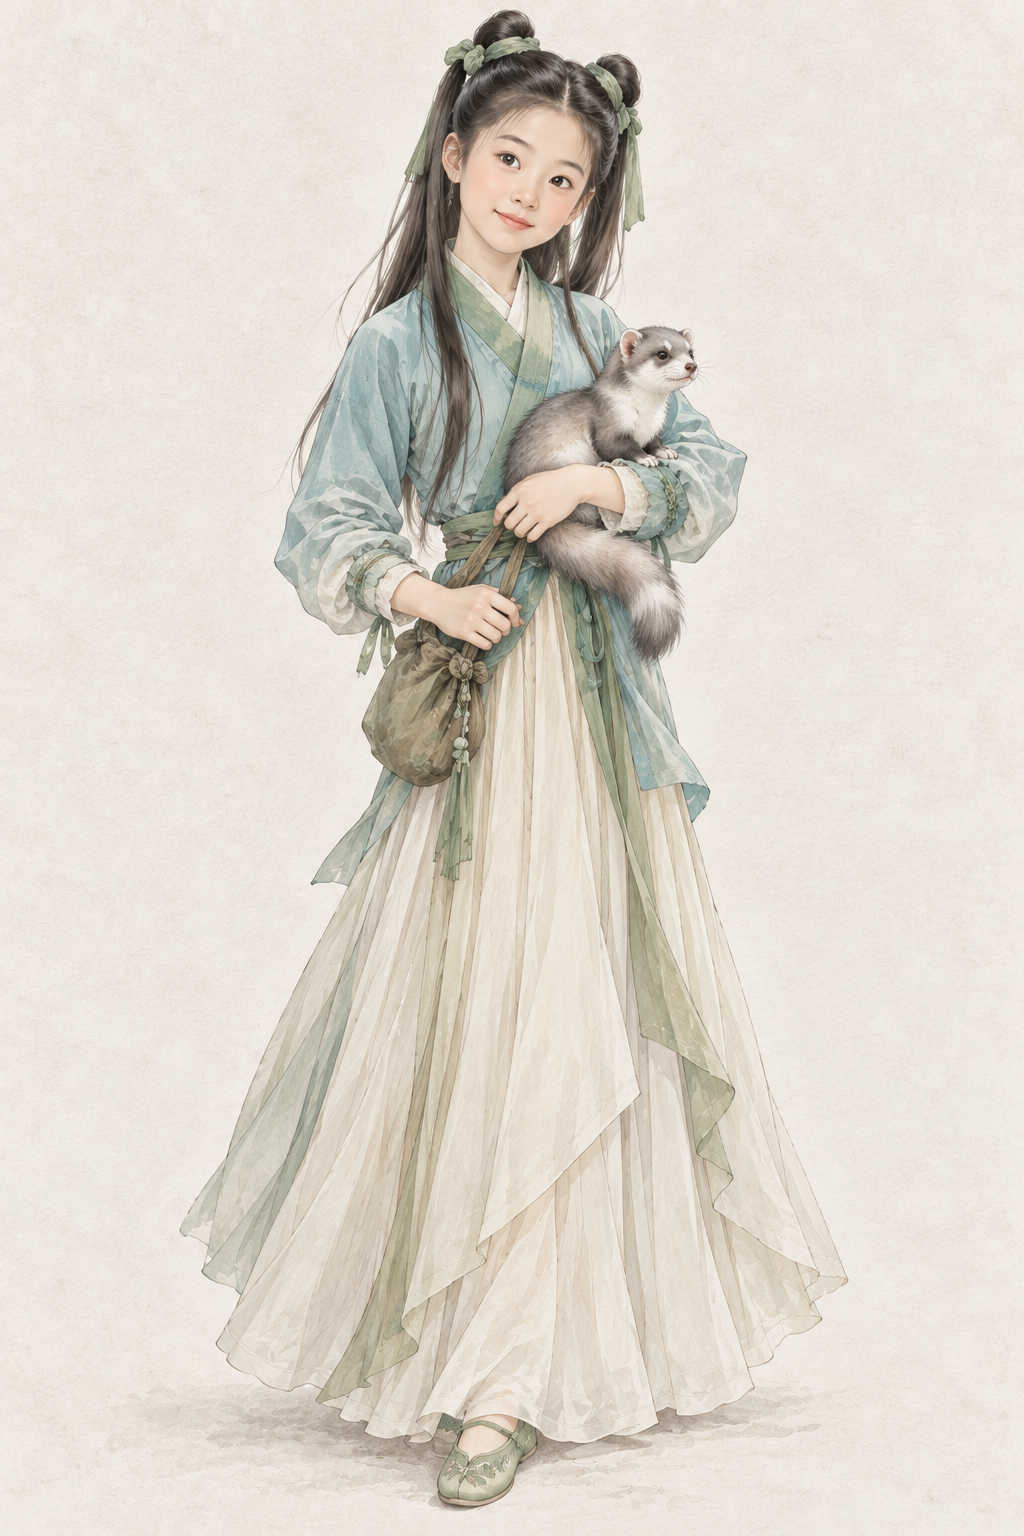
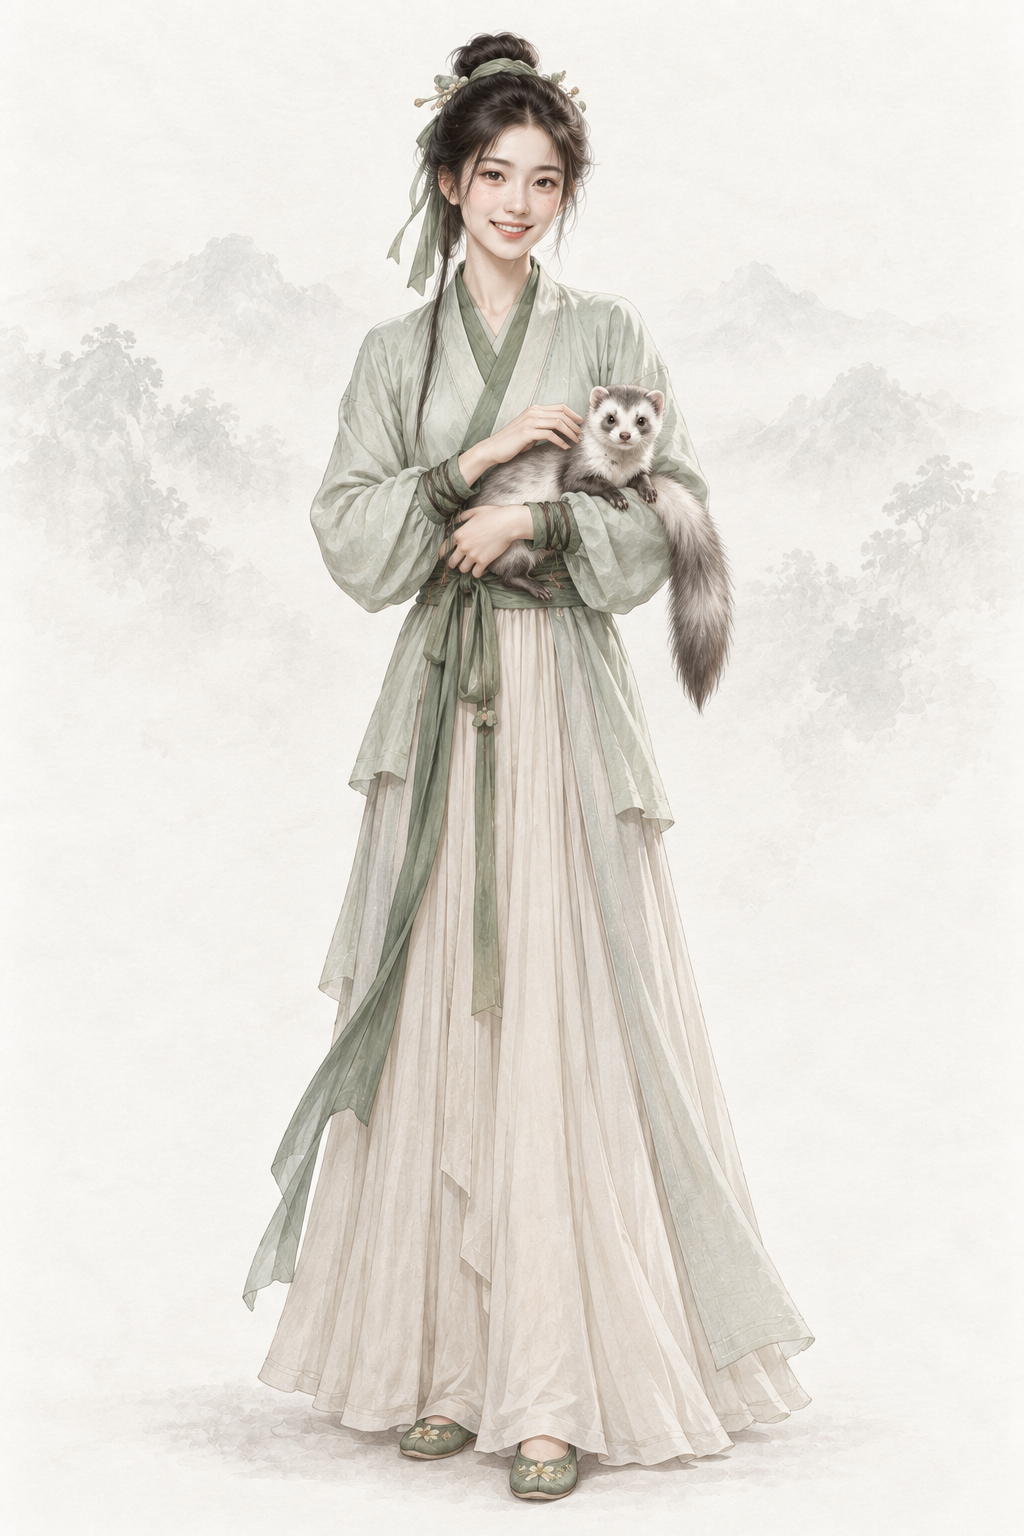
assets(character): por_npc_zhongling__ch01_youth_diaoalive_base 钟灵（codex）
AR-31：重要人物加经典造型文字描写（原创面孔）

diff --git a/assets/default/prompts/characters/ch01-tianlong/npc_zhongling.md b/assets/default/prompts/characters/ch01-tianlong/npc_zhongling.md
@@ -19,11 +19,32 @@ status: redo
 redo_reason: "明显幼态（孩童脸、双丫髻）且面容源自剧集剧照，按禁止幼态画成成年年轻女子，保留青衫、圆脸大眼与闪电貂"
 reference_upload:
 - assets/default/baseline/character/female/ref_npc_wangyuyan__ch01_base01.png
+codex_prompt_rev: 2026-10-02
 ---
 
 # 钟灵 · 《天龙八部》（ch01）
 
 ## Gemini 提示词
+
+> 2026-10-02 AR-31 改写（1 号出图员，codex exec · image_gen 出图）：重要人物借鉴经典影视造型，只写成文字——不写演员名、不上传剧照、原创面孔；主角和美人画得好看，去 AI 味，禁止幼态。出图时上传两张同性别基线立绘作画风参考（放在最后）。审核组原稿保留在下一节作历史。
+
+```text
+生成一张 2:3 竖幅全身人物立绘：单人、单一视角、完整全身——头顶、双手、双脚和手中器物的两端都在画面内，四周留出自然空白；人物站姿自然，身体基本朝向正面，头部端正（不歪头、不仰不俯），镜头平视。
+【画风】写实手绘古风人物插画，与本项目写实武侠角色立绘同一画风：人物是完整、坚实、比例真实的写实绘画；皮肤有真实质感——细小毛孔、细纹、晒痕、轻微色斑和自然的左右不对称，不磨皮、不油亮；头发有一根根的发丝和自然碎发；布料看得出经纬纹理、厚薄和自然垂坠的褶皱，带穿用过的轻微旧化，但完整不破烂；整体设色低饱和、沉稳；柔和的自然光从左上方照来，明暗过渡自然，不打舞台光、轮廓光或美颜柔光。这是手绘写实绘画，不是照片，不是三维渲染，也不是动漫或游戏 CG。
+【背景】不透明的暖浅灰色纸底，只在远处有极淡的水墨远山和薄雾，大面积留白；人物与背景明暗分明、轮廓边缘干净完整（后续要自动抠图），水墨和纸纹只在背景里，不侵入人物和衣服；脚下只有很淡的一点接触阴影。
+【人物】钟灵，《天龙八部》万劫谷谷主之女，段誉在无量山结识的活泼姑娘，养着一只闪电貂；无量山初遇、闪电貂仍随身的阶段。
+【年龄与体态】原著十六七岁，按本作规定画成约二十岁的成年年轻女子，身材轻盈但为成人比例。成年女性的身体比例（约 7 头身），衣着完整端庄、不透明、不暴露、不性感化。
+【经典造型】借鉴经典武侠影视里这个角色深入人心的造型，只取发型、装束、配色、标志道具、气质和脸型类型，用原创面孔画出来，不像任何真实演员：活泼娇憨的钟灵——一身青绿衣裙，乌发挽髻、系绿色丝带，笑靥如花、天真烂漫（已是成年人）。
+【面容】原著写她圆脸大眼、笑靥如花、十分活泼。具体为：成年骨相的圆脸（颧骨与下颌线清楚，不是婴儿肥）；一双明亮的大眼睛带着笑；眉毛浓而弯；鼻头圆；嘴巴略大、笑容灿烂；鼻梁两侧有几点淡淡的雀斑（原创扩展，用来区别阿朱与阿紫）。甜美可爱的成年美人。
+【发式】乌发挽成成年女子的发髻，用一条草绿色发带束住，鬓边留两缕短发；不扎孩童双丫髻。
+【服饰】原著一身青衫：浅青绿色交领右衽短衫，草绿内衫，米灰齐腰长裙，袖口收束；脚穿葱绿色布鞋，鞋边绣几朵小黄花。
+【道具】左前臂上伏着一只灰白色的闪电貂（细长身体、短腿、圆耳、蓬松尾巴，四肢与她的手臂分开、有真实重量），右手轻抚貂背。
+【姿态与神情】双脚稳稳站立，头部端正，笑容明朗灵动，但不卖萌、不歪头。
+【不要】画面里不要任何文字、题款、印章、签名、水印、边框、分格或多视图；不要第二个人；不要幼态（童颜、娃娃脸、婴儿肥、儿童或少年身材、大头小身）；不要塑料感皮肤、磨皮美颜、网红脸（尖下巴大眼高鼻的模板脸）、过度对称、浓妆、偶像式打光、蜡像感；不要照片质感、三维渲染或动漫大眼；不要歪头、斜镜头；不要多指、缺指（设定的伤残除外）、手与器物粘连或悬空；汉式交领必须右衽（穿着者的左襟压在右襟上），不要左衽（设定为少数民族服制的除外），不要水平镜像；不要现代物品、发光特效、法阵或能量光。不要孩童脸、婴儿肥、儿童身材、双丫髻；不要歪头卖萌；不要第二只动物或其他人物。
+【画风基线】随提示词上传的参考图里，最后两张是本项目的立绘画风基线：只参考它们的画风、用色、光线、质感和暖浅灰纸底加淡水墨的背景处理，整体画风必须与它们一致——精细写实的数字手绘插画，不是油画，不要厚涂笔触和画布纹理。参考图只取画风、光线、质感和背景处理，不取长相：不要照搬基线图里人物的长相、年龄、发型、服饰和姿势。
+```
+
+## 审核组 Gemini 提示词（2026-10-02 AR-30 重审稿；AR-31 改写前，历史，不再用于出图）
 
 > 2026-10-02 重要人物立绘重审（A 组，`tools/agents/reports/REVIEW-portraits-A-ch00-04.md`）：**整体重出**。明显幼态（孩童脸、双丫髻）且面容源自剧集剧照，按禁止幼态画成成年年轻女子，保留青衫、圆脸大眼与闪电貂。
 > 本条不上传任何参考图（`reference_upload: []`）；frontmatter 的 `references` 与本节以下内容是旧出图管线的历史记录，不再用于出图。
